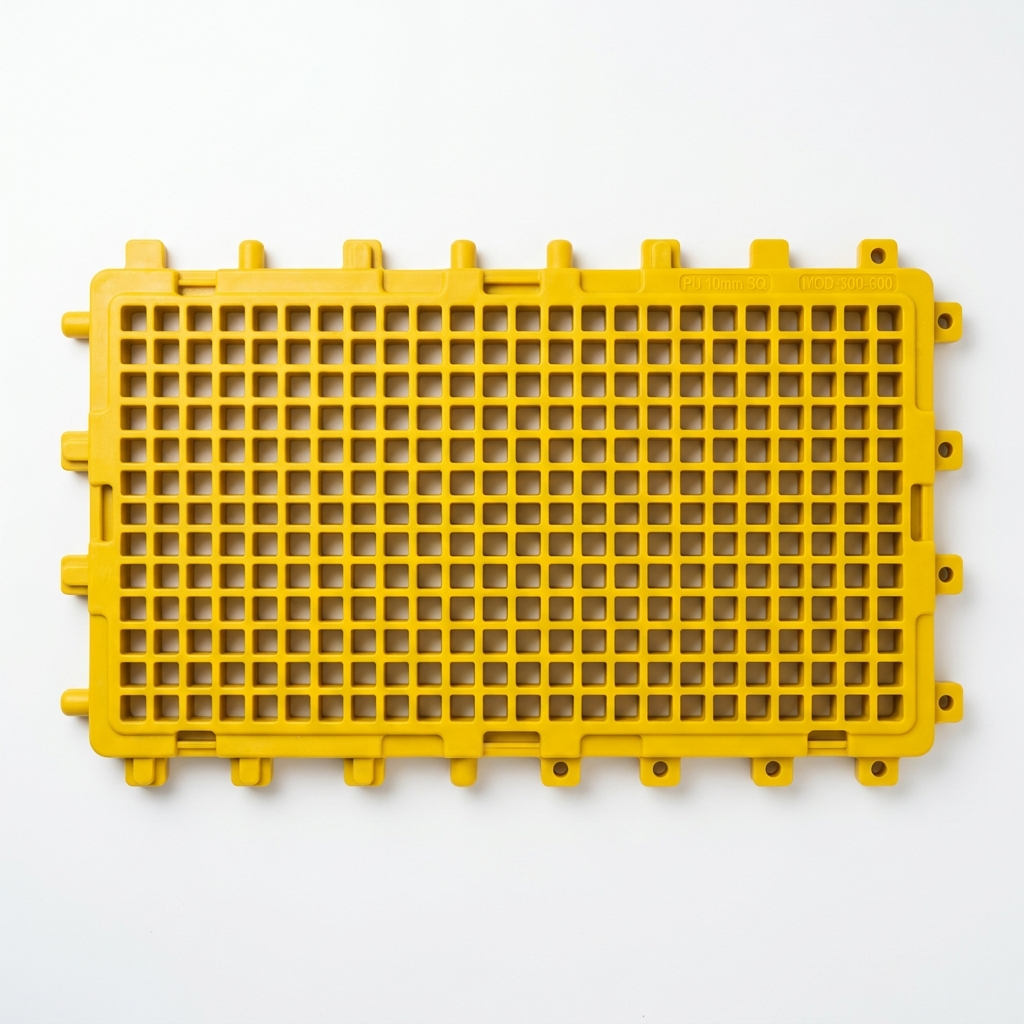
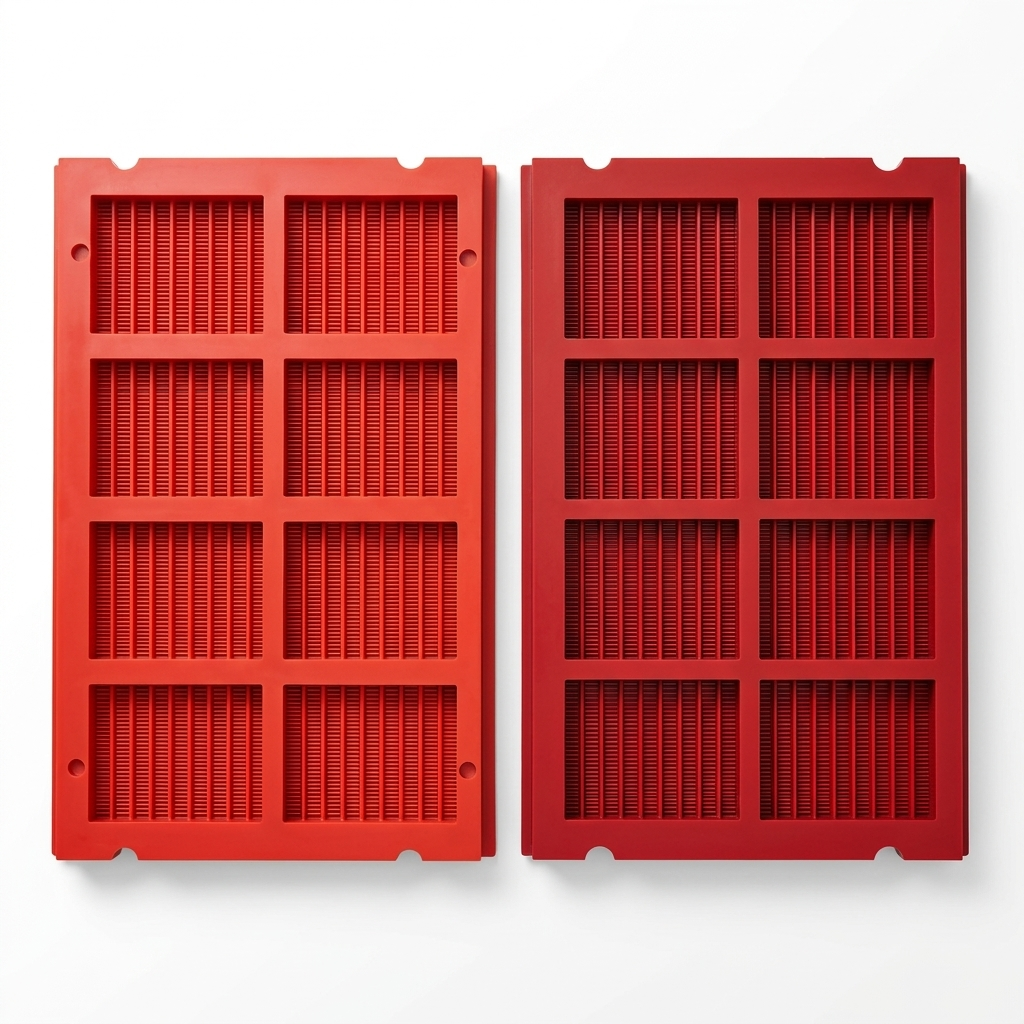
Replace PU Modular Screen Panels image with studio-edited version of real manufactured product

diff --git a/src/main.jsx b/src/main.jsx
@@ -99,9 +99,9 @@ const products = [
     reviews: "31",
     views: [
       { label: "Front View", src: "/pu-screen-panel.jpg" },
-      { label: "Back View", src: "/screen-panel-back.jpg" }
+      { label: "Panel Angle", src: "/screen-panel-back.jpg" }
     ],
-    description: "Interlocking polyurethane modular screen deck mats for vibrating screens, dewatering equipment, and mineral classification. Engineered with tapered non-blinding square apertures and an internal steel reinforcement skeleton to maximize screening throughput and resist severe slurry abrasion.",
+    description: "Interlocking polyurethane modular screen deck panels for vibrating screens, dewatering equipment, and mineral classification. Engineered with tapered non-blinding slotted apertures and high-integrity polyurethane construction to maximize screening throughput and resist severe slurry abrasion.",
     specs: [
       { label: "Material", value: "Premium Polyurethane Elastomer + Steel Reinforcement" },
       { label: "Aperture Sizes", value: "0.5 mm to 65 mm (Square, Slotted, Hexagonal)" },
